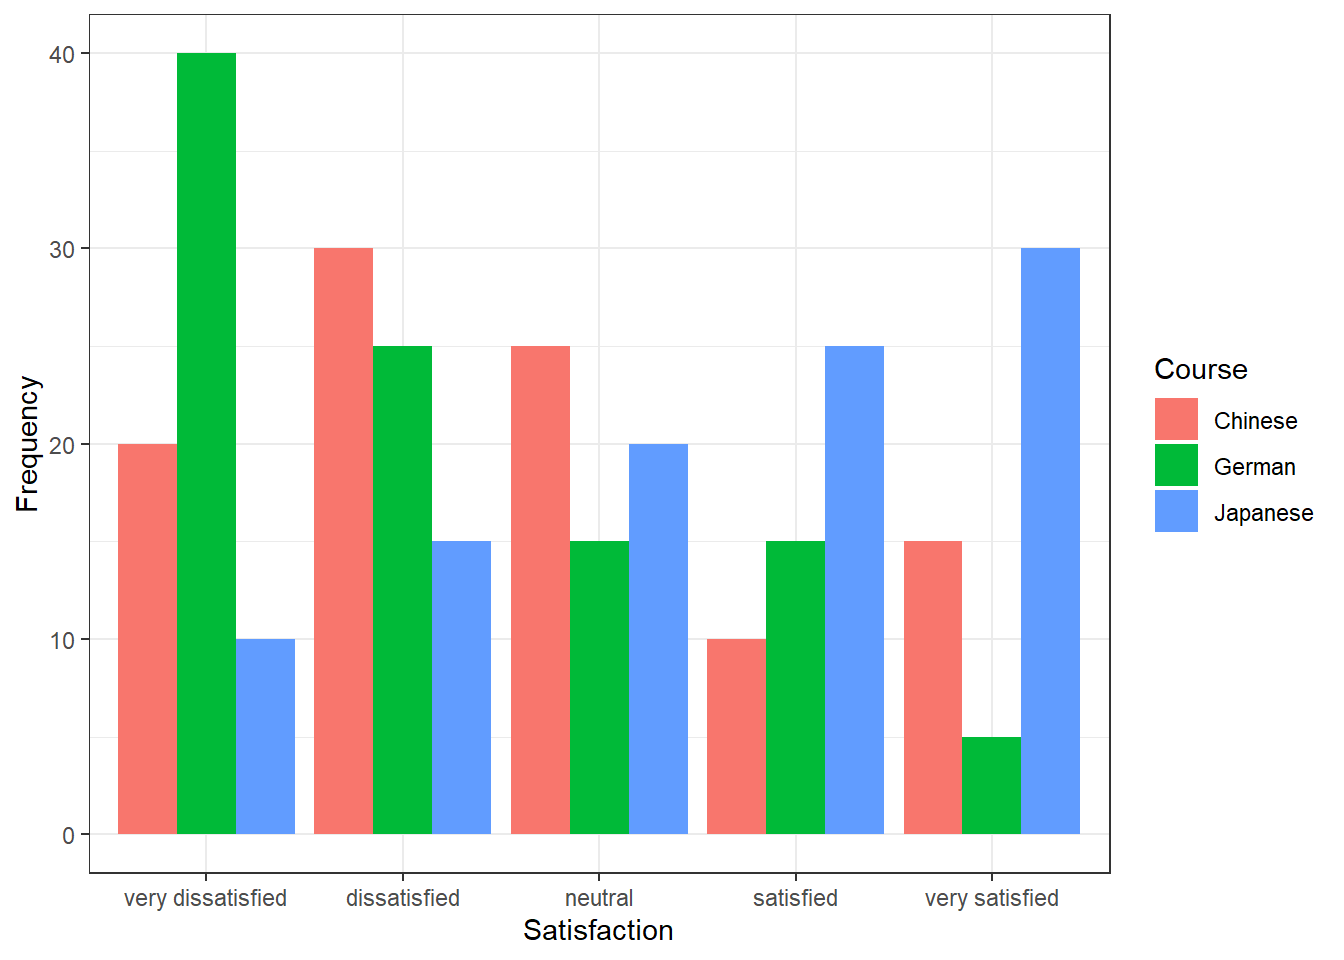
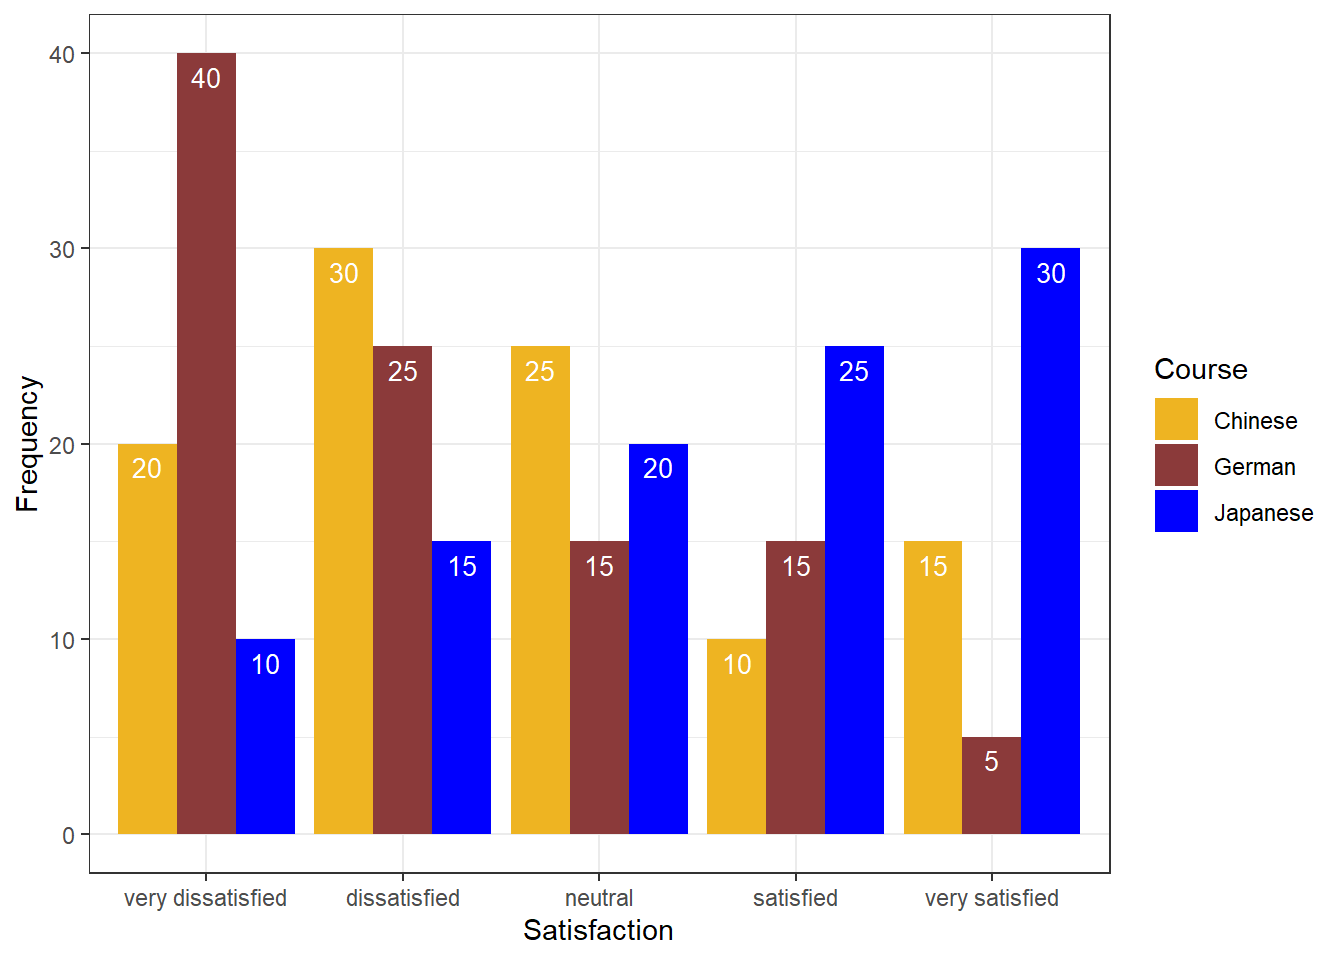
last commit

Changed region(s): [[0.0625, 0.0312, 0.8125, 0.875], [0.8438, 0.4062, 0.9062, 0.5625]]

diff --git a/surveys.html b/surveys.html
@@ -537,7 +537,7 @@ div.tocify {
 <li>Click on the file “surveys.Rmd”</li>
 </ol>
 <ul>
-<li>The Markdown file of this tutorial should now be open in the upper left panel of R Studio. To execute the code which prepare the session, load the data, create the graphs, and perform the satatistics, simply click on the green arrows in the top right corner of the code boxes.</li>
+<li>The Markdown file of this tutorial should now be open in the upper left panel of R Studio. To execute the code blocks used in this session, simply click on the green arrows in the top right corner of the code boxes.</li>
 <li>To render a PDF of this tutorial, simply click on “Knit” above the upper left panel in R Studio.</li>
 </ul>
 </div>
@@ -937,7 +937,13 @@ kable(head(groupedbardata), caption = &quot;First 6 rows of groupedbardata&quot;
 <pre class="r"><code># bar plot
 ggplot(groupedbardata, 
        aes(Satisfaction, Frequency, fill = Course)) + 
-  geom_bar(stat=&quot;identity&quot;, position = position_dodge()) +  
+  geom_bar(stat=&quot;identity&quot;, position = position_dodge()) +
+  # define colors
+  scale_fill_manual(values = c(&quot;goldenrod2&quot;, &quot;indianred4&quot;, &quot;blue&quot;)) + 
+  # add text
+  geom_text(aes(label=Frequency), vjust=1.6, color=&quot;white&quot;, 
+            # define text position and size
+            position = position_dodge(0.9),  size=3.5) + 
   theme_bw()                         </code></pre>
 <p><img src="surveys_files/figure-html/bar_05-1.png" width="672" /></p>
 <p>If we leave out the “position=position_dodge()” argument, we get a stacked bar plot as shown below.</p>
